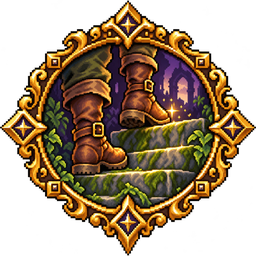
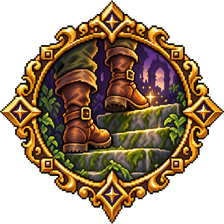
feat(dashboard): badge art for 21 achievements; earned ones glow and shine; one title size
- Badge art from icons/achievements matched by title (cropped, 224px) for
  21 of 24 achievements; Into the Arena, Scholar and Skilled keep the
  medallion until they get art. The server now reports which achievements
  have art (from the files), so new art needs no code change.
- Earned badges: a soft gold glow breathing behind them and a light sweep
  across the badge every few seconds, masked to its shape and staggered
  across tiles; stilled under reduced motion.
- Titles keep one size and sit at one height across a row; only the
  description steps down to fit.

diff --git a/static/dashboard/index.js b/static/dashboard/index.js
@@ -349,8 +349,6 @@
 
   // ── Character (RPG) ──────────────────────────────────────────────────────
   const STATS = ['STR', 'INT', 'CHA', 'VIT', 'DEX'];
-  // Achievements with badge art in static/dashboard/achievements/<key>.png.
-  const ACH_ART = new Set(['first_task', 'first_quest', 'quests_10', 'tasks_50', 'streak_7']);
   function radar(stats) {
     const max = Math.max(10, ...STATS.map((k) => (stats[k] || {}).value || 0));
     const c = 80, r = 58, n = STATS.length;
@@ -413,8 +411,8 @@
     const newest = achievements.filter((a) => a.unlocked_at).sort((a, b) => b.unlocked_at - a.unlocked_at)[0];
     // Achievements with their own badge art fill most of the tile; the rest
     // get a pixel medallion around their icon. Locked ones stay dark until earned.
-    const achHtml = achievements.map((a) => `<div class="rpg-ach${a.unlocked_at ? '' : ' is-locked'}${ACH_ART.has(a.key) ? ' has-art' : ''}" title="${esc(a.title)}: ${esc(a.description)}${a.unlocked_at ? ` · earned ${esc(ago(a.unlocked_at))}` : ''}">
-        <span class="rpg-ach-art" aria-hidden="true">${ACH_ART.has(a.key) ? `<img src="static/dashboard/achievements/${esc(a.key)}.png" alt="" draggable="false" loading="lazy">` : `<span class="rpg-ach-medal">${esc(a.icon)}</span>`}${a.unlocked_at ? '' : '<span class="rpg-ach-lock"></span>'}</span>
+    const achHtml = achievements.map((a) => `<div class="rpg-ach${a.unlocked_at ? '' : ' is-locked'}${a.art ? ' has-art' : ''}" title="${esc(a.title)}: ${esc(a.description)}${a.unlocked_at ? ` · earned ${esc(ago(a.unlocked_at))}` : ''}">
+        <span class="rpg-ach-art" aria-hidden="true">${a.art ? `<img src="static/dashboard/achievements/${esc(a.key)}.png" alt="" draggable="false" loading="lazy">` : `<span class="rpg-ach-medal">${esc(a.icon)}</span>`}${a.unlocked_at ? `<span class="rpg-ach-shine"${a.art ? ` style="--art:url('static/dashboard/achievements/${esc(a.key)}.png')"` : ''}></span>` : '<span class="rpg-ach-lock"></span>'}</span>
         <span class="rpg-ach-text"><strong>${esc(a.title)}</strong><small>${esc(a.description)}</small></span>
       </div>`).join('');
     const areas = (data.areas || []).map((a) => `<div class="dash-row"><span class="dash-area-dot is-${a.key}"></span><span class="dash-row-main"><strong>${esc(AREA[a.key])} · Lv ${a.level}</strong><small>${a.xp} XP · ${plural(a.tasks, 'deed')}</small></span>${bar(a.progress)}</div>`).join('');
@@ -711,7 +709,7 @@
   function fitAchievements(host) {
     host.querySelectorAll('.rpg-ach').forEach((tile) => {
       const box = tile.querySelector('.rpg-ach-text') || tile;
-      const parts = [...box.querySelectorAll('strong,small')];
+      const parts = [...box.querySelectorAll('small')];  // titles stay one size; only the line under them shrinks
       parts.forEach((el) => { el.style.fontSize = ''; });
       let step = 0;
       while (box.scrollHeight > box.clientHeight + 1 && step < 6) {

diff --git a/static/style.css b/static/style.css
@@ -13492,3 +13492,21 @@ body[data-instance-label]::after{content:attr(data-instance-label);position:fixe
 .rpg-ach-medal{width:76px;height:76px;font-size:34px;}
 .dash.is-rpg .rpg-plate{align-items:center;flex-wrap:nowrap;}
 .dash.is-rpg .rpg-plate-level{flex:none;transform:translateY(1px);} /* Press Start sits 1px high beside VT323 */
+
+/* Earned achievements: a soft gold glow breathing behind the badge and a
+   light sweep across it now and then (masked to the badge's own shape).
+   Titles keep one size; only the line under them steps down to fit. */
+.dash.is-rpg .rpg-ach .rpg-ach-text strong{font-size:16px!important;}
+.dash.is-rpg .rpg-ach:not(.is-locked) .rpg-ach-art::before{content:"";position:absolute;left:50%;top:50%;width:104px;height:104px;margin:-52px 0 0 -52px;border-radius:50%;background:radial-gradient(circle,rgba(244,197,66,.22) 0%,rgba(244,197,66,.08) 45%,transparent 70%);animation:rpg-ach-glow 4.5s ease-in-out infinite;pointer-events:none;}
+.dash.is-rpg .rpg-ach:not(.is-locked) .rpg-ach-art > :is(img,.rpg-ach-medal){position:relative;filter:drop-shadow(0 4px 0 rgba(0,0,0,.35)) drop-shadow(0 0 6px rgba(244,197,66,.25));}
+.rpg-ach-shine{position:absolute;left:50%;top:50%;width:96px;height:96px;margin:-48px 0 0 -48px;pointer-events:none;background:linear-gradient(115deg,transparent 40%,rgba(255,246,214,.55) 50%,transparent 60%) -150% 0/250% 100% no-repeat;-webkit-mask:var(--art) center/contain no-repeat;mask:var(--art) center/contain no-repeat;animation:rpg-ach-shine 7s ease-in-out infinite;}
+.rpg-ach:not(.has-art) .rpg-ach-shine{width:76px;height:76px;margin:-38px 0 0 -38px;-webkit-mask:none;mask:none;clip-path:polygon(24% 0,76% 0,100% 24%,100% 76%,76% 100%,24% 100%,0 76%,0 24%);}
+.rpg-ach:nth-child(3n+1) .rpg-ach-shine{animation-delay:-1.5s;}
+.rpg-ach:nth-child(3n+2) .rpg-ach-shine{animation-delay:-4s;}
+.rpg-ach:nth-child(4n) .rpg-ach-shine{animation-delay:-5.5s;}
+@keyframes rpg-ach-shine{0%,72%{background-position:-150% 0;}100%{background-position:250% 0;}}
+@keyframes rpg-ach-glow{0%,100%{opacity:.55;transform:scale(.94);}50%{opacity:1;transform:scale(1.04);}}
+@media (prefers-reduced-motion:reduce){.rpg-ach-shine{animation:none;display:none;}.dash.is-rpg .rpg-ach:not(.is-locked) .rpg-ach-art::before{animation:none;}}
+/* The hover sweep from before is replaced by the badge's own shine. */
+.dash.is-rpg .rpg-ach:not(.is-locked)::after{content:none;}
+.rpg-ach-text{justify-content:flex-start;padding-top:4px;} /* titles on one line across a row */

diff --git a/tests/test_dashboard_browser.py b/tests/test_dashboard_browser.py
@@ -636,7 +636,14 @@ def test_character_frame_art_level_card_columns_and_achievement_badges(browser):
         return [Math.round(e.left - b.left), Math.round(e.width - b.width)]; }""")
     assert cols == [0, 0]  # evolution lines up with the badge below it
     art = page.evaluate("() => [...document.querySelectorAll('.rpg-ach.has-art img')].map(i => [i.naturalWidth > 0, i.getAttribute('src')])")
-    assert len(art) == 5 and all(ok for ok, _ in art)
+    data = page.evaluate("() => window.HermesDashboard._state.data.character.achievements")
+    assert len(art) == sum(1 for a in data if a["art"]) >= 21 and all(ok for ok, _ in art)
+    # Titles are one size and one height across a row; only descriptions shrink.
+    assert page.evaluate("() => new Set([...document.querySelectorAll('.rpg-ach strong')].map(s => getComputedStyle(s).fontSize)).size") == 1
+    offsets = page.evaluate("() => new Set([...document.querySelectorAll('.rpg-ach')].map(a => Math.round(a.querySelector('strong').getBoundingClientRect().top - a.getBoundingClientRect().top))).size")
+    assert offsets == 1
+    earned = page.evaluate("() => [...document.querySelectorAll('.rpg-ach:not(.is-locked)')].every(a => a.querySelector('.rpg-ach-shine'))")
+    assert earned and page.evaluate("() => document.querySelectorAll('.rpg-ach.is-locked .rpg-ach-shine').length") == 0
 
 
 def test_character_frame_only_chronicle_filters_stick_and_lists_keep_their_scroll(browser):

diff --git a/api/dashboard_game.py b/api/dashboard_game.py
@@ -22,6 +22,7 @@ import threading
 import time
 import uuid
 from contextlib import contextmanager
+from pathlib import Path
 from typing import Any, Iterator
 
 from api.config import STATE_DIR
@@ -857,8 +858,21 @@ def _achievements(progress: dict[str, Any], now: float) -> list[dict[str, Any]]:
                 if earned:
                     unlocked[key] = now
                     conn.execute("INSERT OR IGNORE INTO achievements(key, unlocked_at) VALUES(?, ?)", (key, now))
-    return [{"key": k, "title": t, "description": d, "icon": i, "unlocked_at": unlocked.get(k),
+    return [{"key": k, "title": t, "description": d, "icon": i, "unlocked_at": unlocked.get(k), "art": k in _achievement_art(),
              "new": bool(unlocked.get(k)) and unlocked[k] >= now - 3 * DAY} for k, t, d, i, _ in ACHIEVEMENTS]
+
+
+_ART_DIR = Path(__file__).resolve().parent.parent / "static" / "dashboard" / "achievements"
+
+
+def _achievement_art() -> set[str]:
+    """Achievements with badge art (static/dashboard/achievements/<key>.png);
+    the rest show their icon in a medallion. Read each time, so new art shows
+    without a restart."""
+    try:
+        return {f.stem for f in _ART_DIR.glob("*.png")}
+    except OSError:
+        return set()
 
 
 def _safe(build, default):

diff --git a/tests/test_dashboard_game.py b/tests/test_dashboard_game.py
@@ -284,3 +284,11 @@ def test_the_treasury_tracks_gold_in_and_out(game):
     kinds = [f["kind"] for f in t["ledger"]]
     assert "spend" in kinds and "achievement" in kinds and "earn" in kinds
     assert len(t["days"]) == 14 and t["days"][-1]["spent"] == 30
+
+
+def test_achievements_say_which_ones_have_badge_art():
+    from api import dashboard_game
+
+    art = dashboard_game._achievement_art()
+    assert {"first_task", "habit_month", "tasks_200"} <= art
+    assert art <= {a[0] for a in dashboard_game.ACHIEVEMENTS}  # every art file belongs to an achievement
